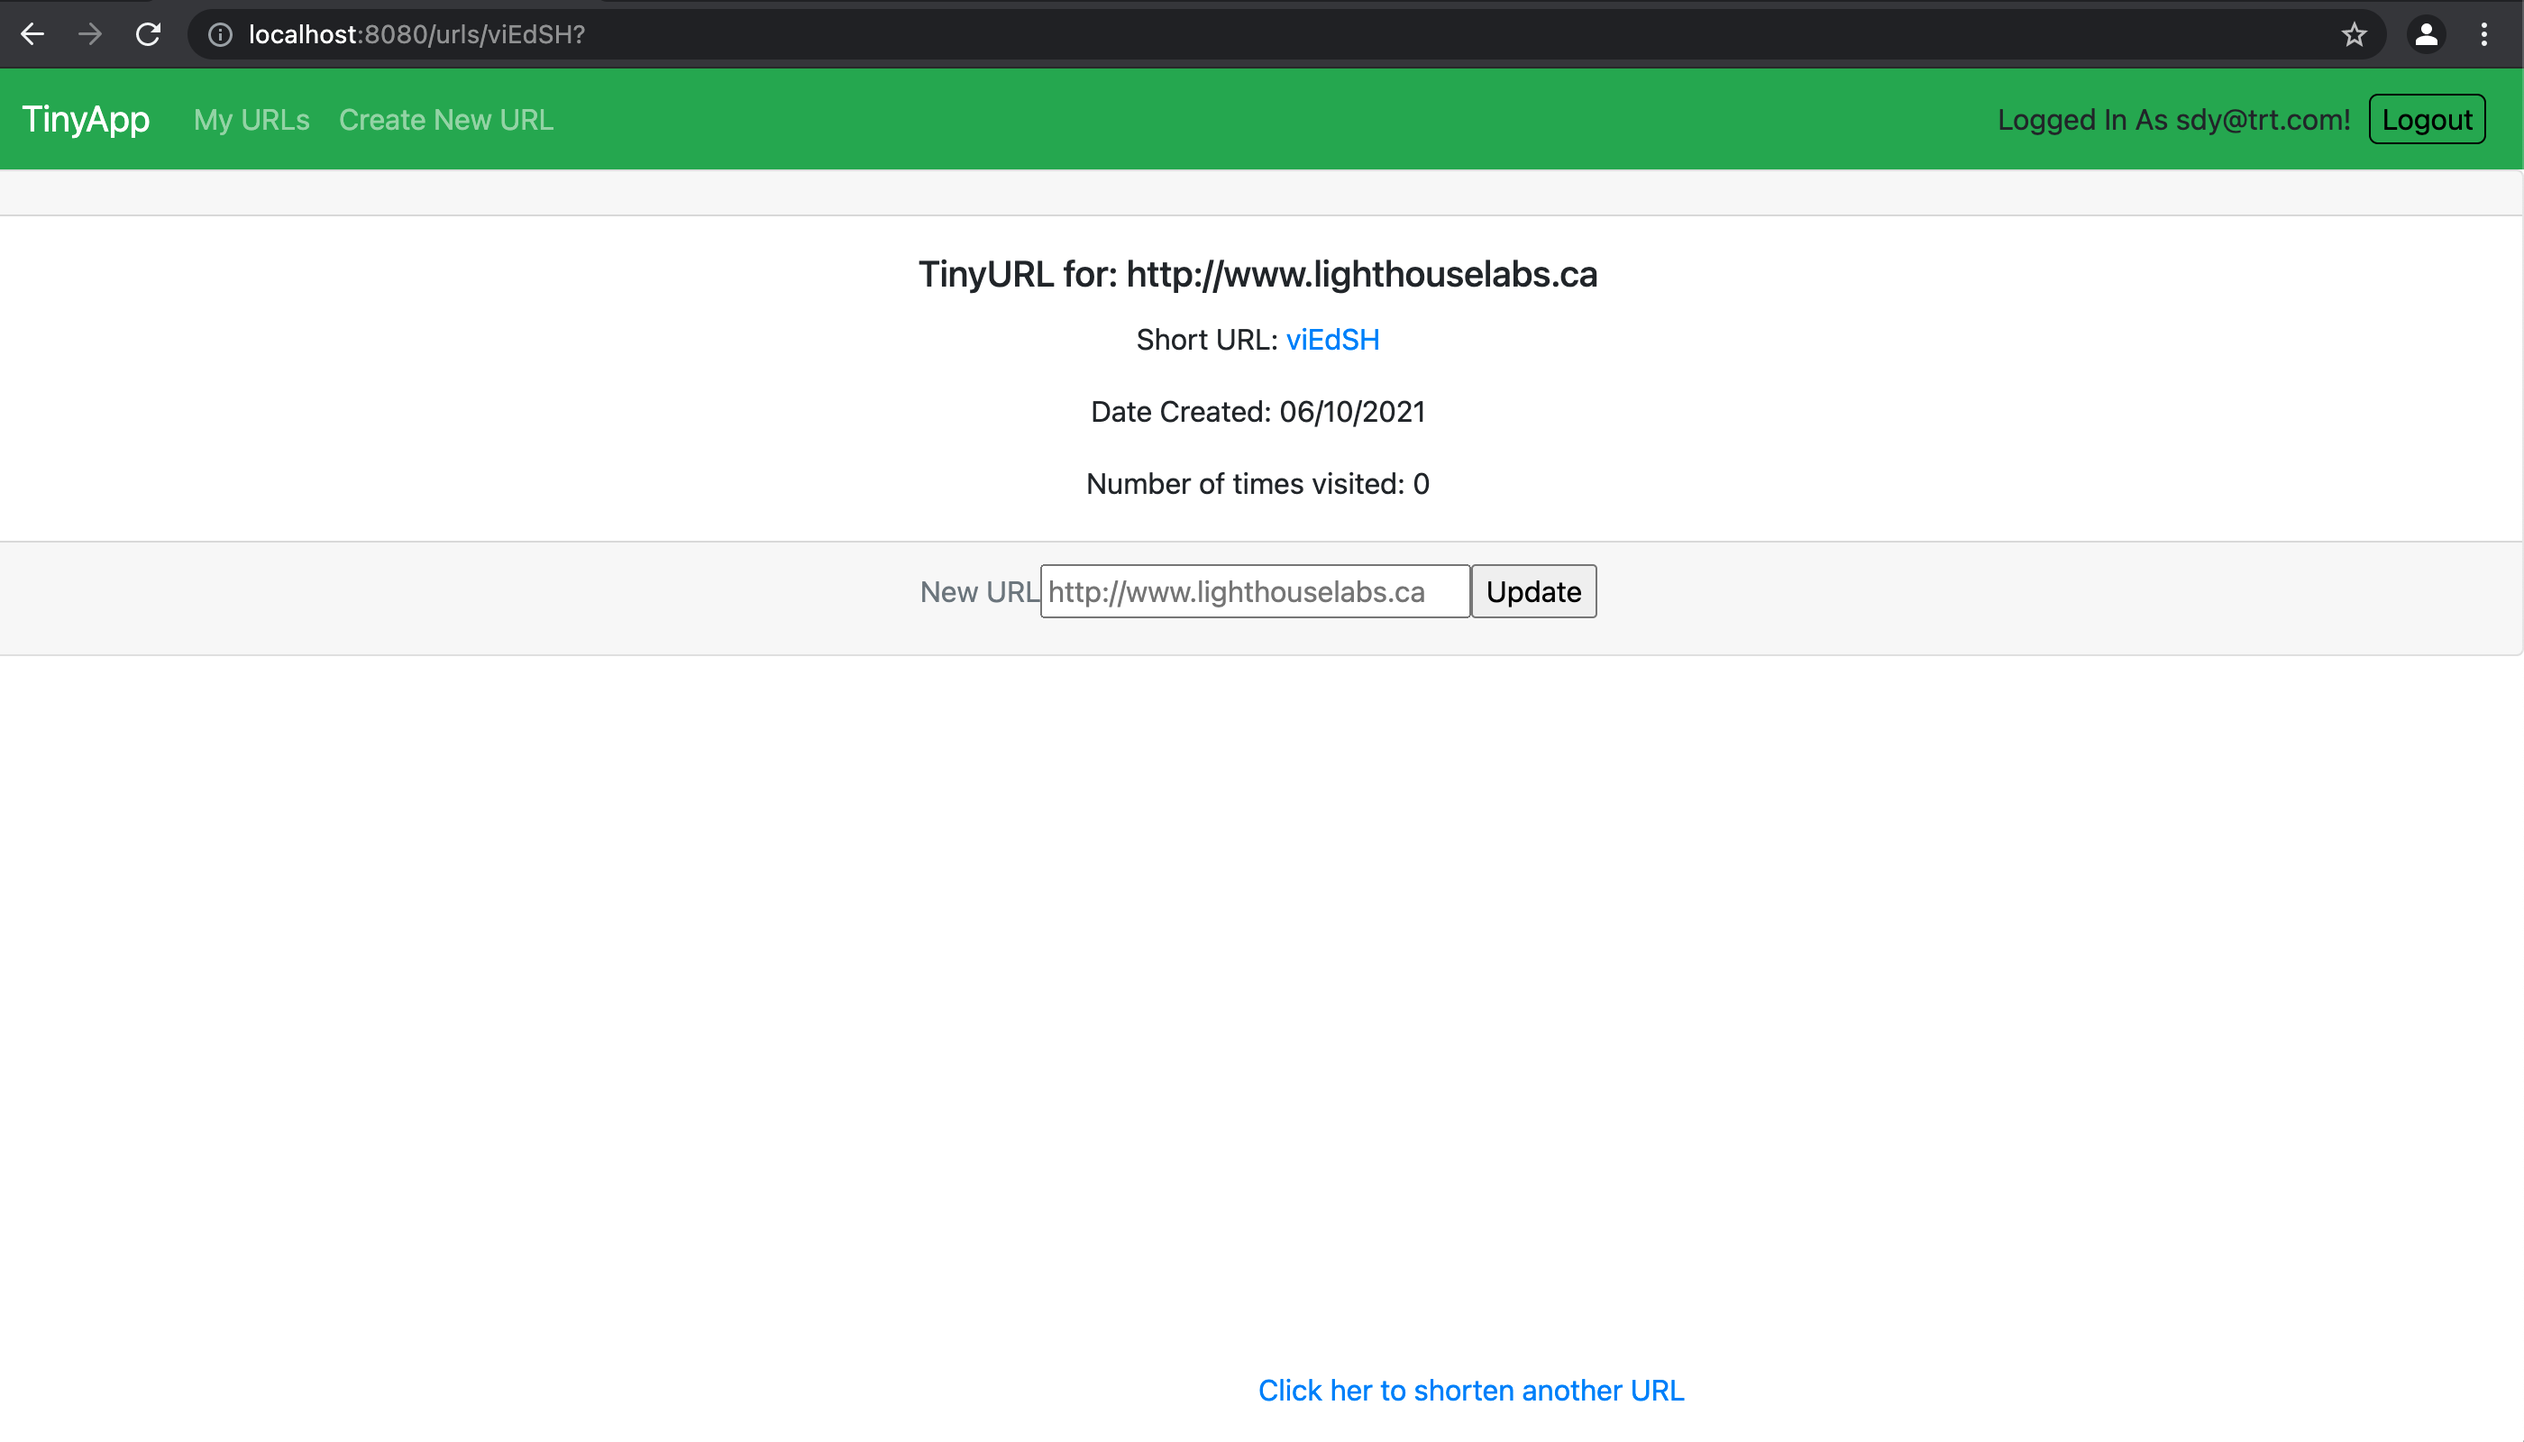
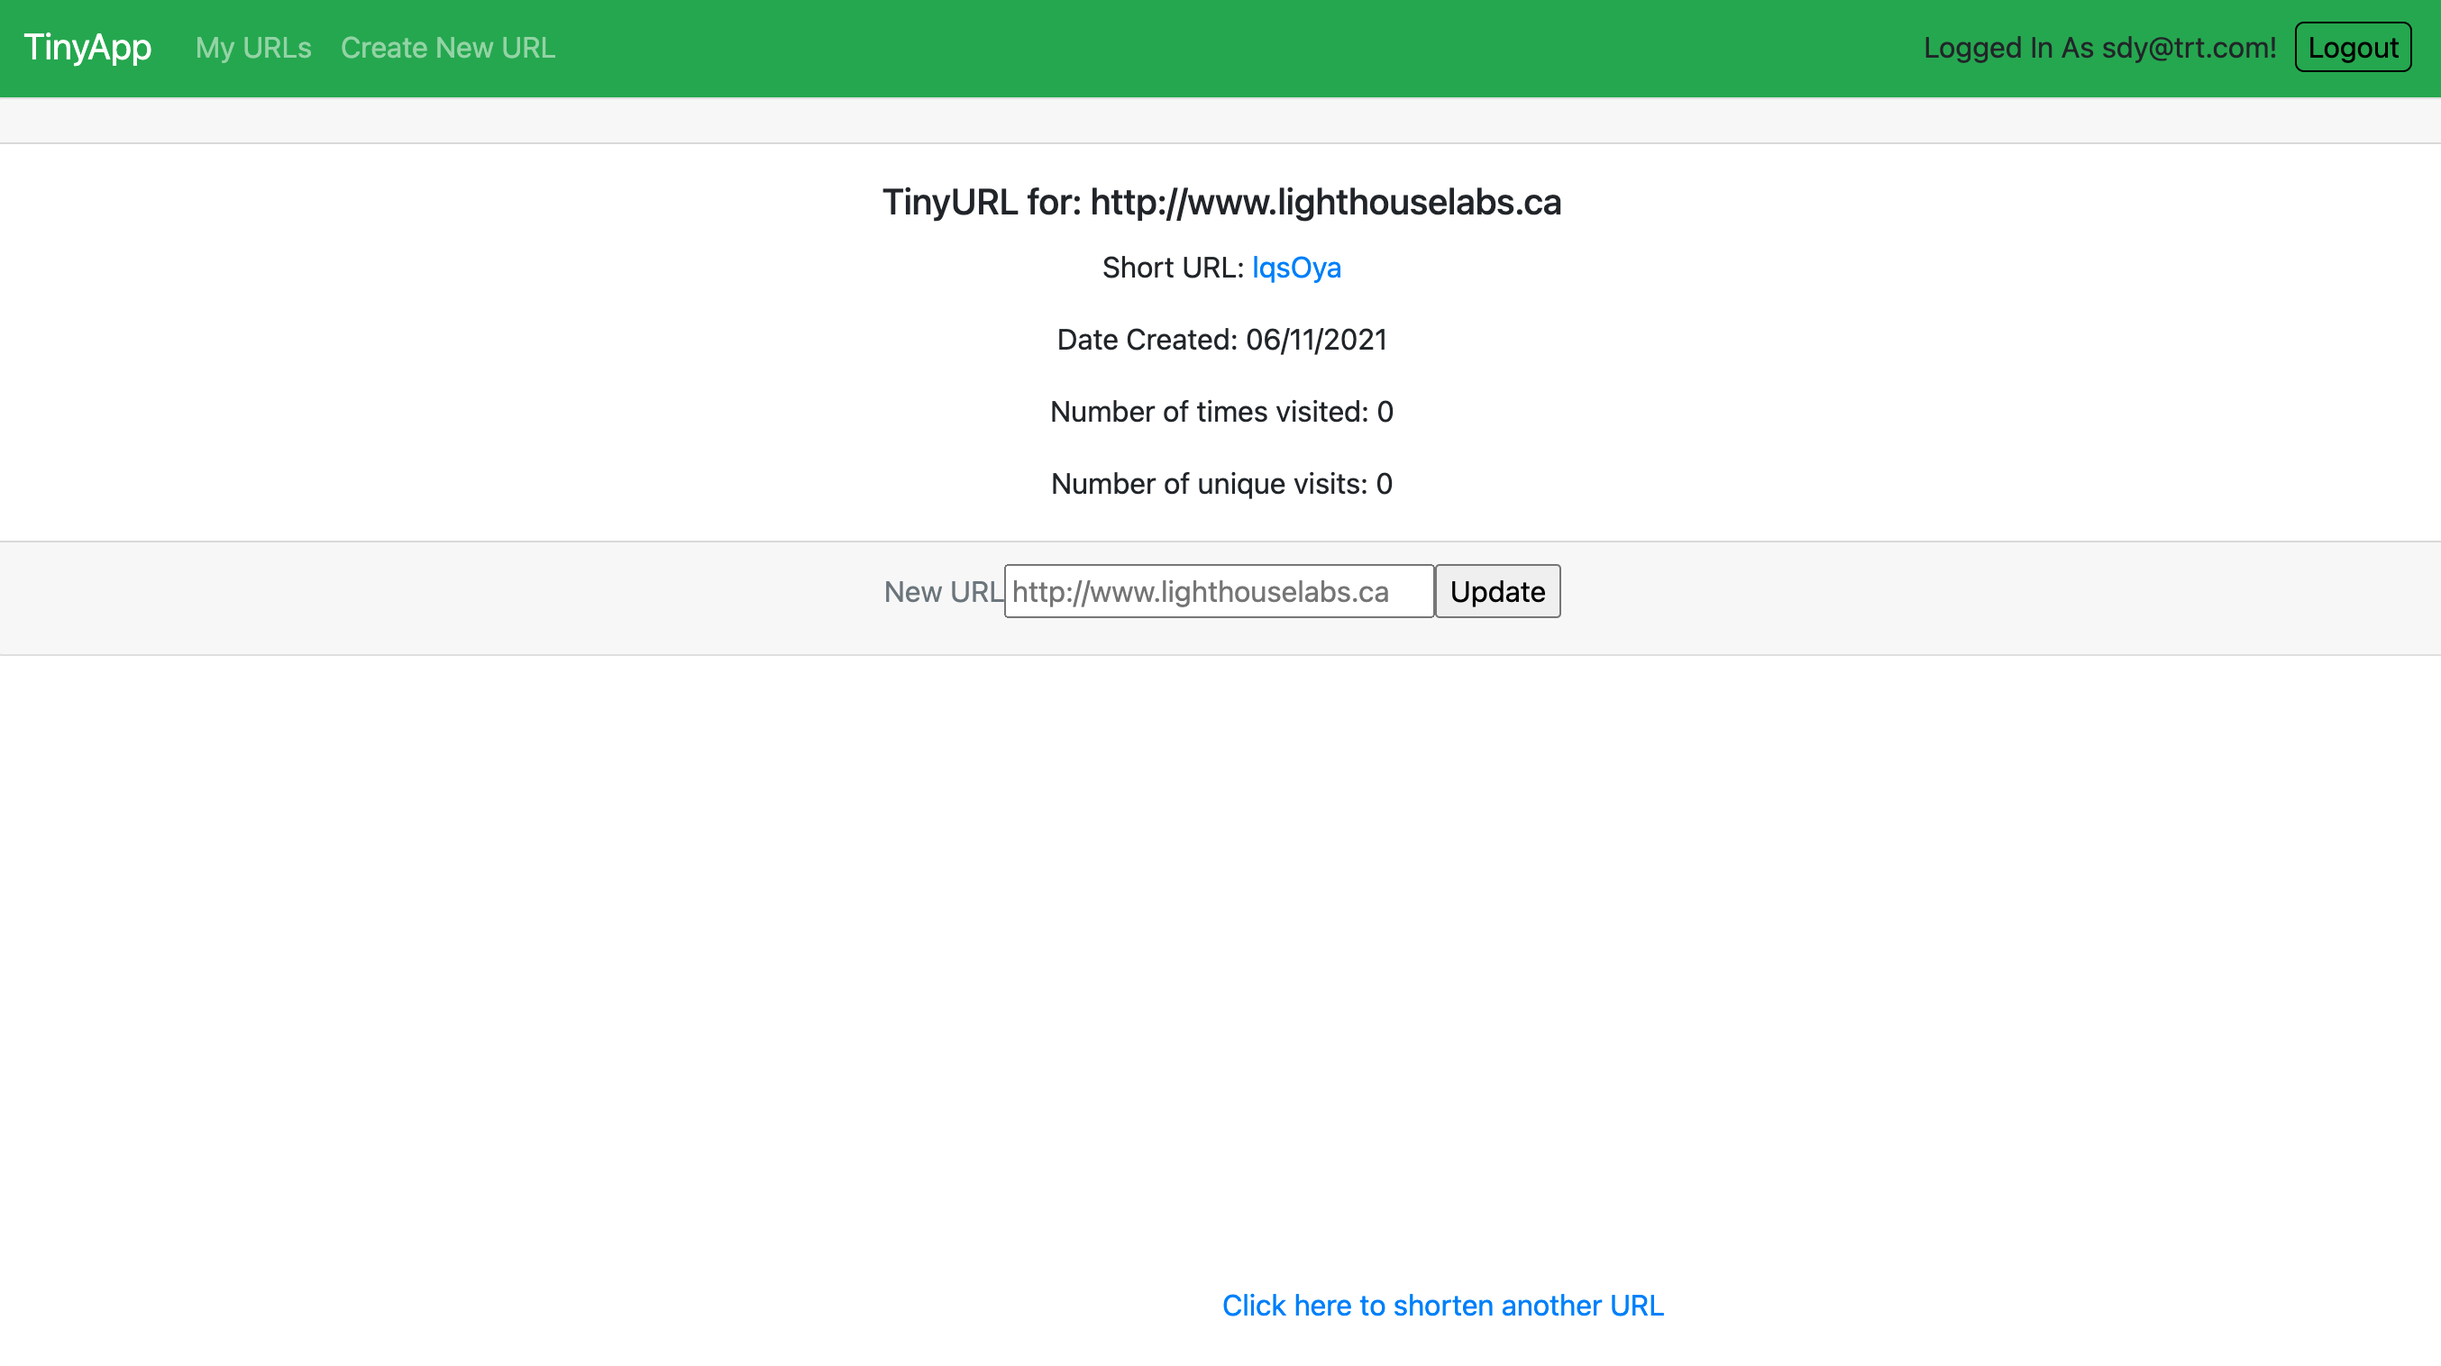
updated server to follow REST conventions using method-override and updted README

Changed region(s): [[0.0, 0.0, 1.0, 0.465], [0.4963, 0.9301, 0.6824, 0.9921], [0.9926, 0.372, 1.0, 0.403]]

diff --git a/express_server.js b/express_server.js
@@ -1,5 +1,6 @@
 const cookieSession = require('cookie-session');
 const express = require('express');
+const methodOverride = require('method-override');
 const bcrypt = require('bcrypt');
 const {getUserByEmail, generateRandomString, getDate} = require('./helpers');
 
@@ -18,6 +19,9 @@ const urlDatabase = {};
 // key user ID and value Object with keys id, email and password
 //Format: {id: {id:"" ,  email:"" , password: ""}}
 const users = {};
+
+// override with POST having ?_method=DELETE
+app.use(methodOverride('_method'));
 
 //Set EJS as the view engine
 app.set("view engine", "ejs");
@@ -109,7 +113,8 @@ app.get("/urls/:shortURL", (req, res) => {
     shortURL,
     longURL: urlDatabase[shortURL].longURL,
     date: urlDatabase[shortURL].date,
-    visitCount: urlDatabase[shortURL].visitCount
+    visitCount: urlDatabase[shortURL].visitCount,
+    uniqueVisitCount: urlDatabase[shortURL].uniqueVisitCount
   };
   res.render("urls_show", templateVars);
 });
@@ -183,7 +188,7 @@ app.post("/urls", (req, res) => {
 });
 
 //Handle delete request from form
-app.post("/urls/:shortURL/delete", (req, res) => {
+app.delete("/urls/:shortURL", (req, res) => {
   const id = req.session.userID;
   const shortURL = req.params.shortURL;
   if (id !== urlDatabase[shortURL].userID) {
@@ -195,7 +200,7 @@ app.post("/urls/:shortURL/delete", (req, res) => {
 });
 
 //Handle Update request
-app.post("/urls/:shortURL", (req, res) => {
+app.put("/urls/:shortURL", (req, res) => {
   const id = req.session.userID;
   const shortURL = req.params.shortURL;
   if (id !== urlDatabase[shortURL].userID) {

diff --git a/README.md b/README.md
@@ -23,6 +23,7 @@ This project is made as an project during week 3 of Lighthouse Labs Bootcamp. Th
 - bcrypt
 - body-parser
 - cookie-session
+- method-override
 
 ## Getting Started
 
